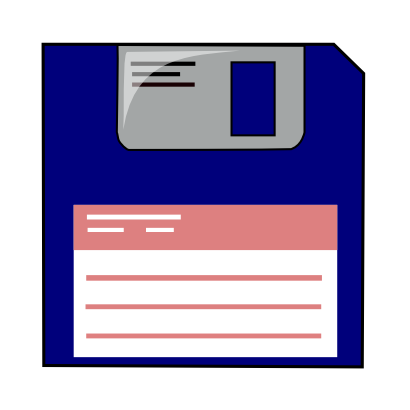
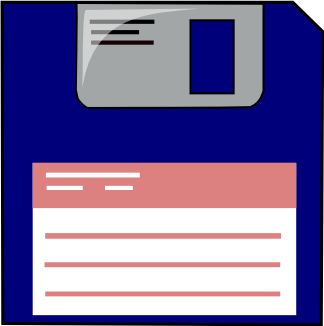
Raccourcis fonctionnels

diff --git a/src/main/java/MyNotes.java b/src/main/java/MyNotes.java
@@ -3,11 +3,11 @@
 import javafx.application.Application;
 import javafx.event.ActionEvent;
 import javafx.event.EventHandler;
-import javafx.geometry.Insets;
 import javafx.geometry.Pos;
 import javafx.scene.Scene;
 import javafx.scene.control.*;
 import javafx.scene.control.Button;
+import javafx.scene.control.Label;
 import javafx.scene.control.Menu;
 import javafx.scene.control.MenuBar;
 import javafx.scene.control.MenuItem;
@@ -15,10 +15,7 @@ import javafx.scene.control.TextArea;
 import javafx.scene.image.Image;
 import javafx.scene.image.ImageView;
 import javafx.scene.input.KeyCombination;
-import javafx.scene.layout.HBox;
-import javafx.scene.layout.Pane;
-import javafx.scene.layout.StackPane;
-import javafx.scene.layout.VBox;
+import javafx.scene.layout.*;
 import javafx.scene.text.Text;
 import javafx.scene.text.TextAlignment;
 import javafx.stage.FileChooser;
@@ -56,6 +53,8 @@ public class MyNotes extends Application {
     private Menu menuCopier;
 
     private HBox commandsShortcut;
+    private Button newFileShortcut;
+    private Button openShortcut;
     private Button saveShortcut;
 
 
@@ -81,10 +80,15 @@ public class MyNotes extends Application {
     private VBox root;
 
 
-
-
-
-    private Desktop desktop;
+    ImageView creerImageViewShortcut(String nomImage){
+        File fileImgSave = new File("./"+nomImage);
+        String localUrl = fileImgSave.toURI().toString();
+        Image imgSave = new Image(localUrl);
+        ImageView imgView = new ImageView(imgSave);
+        imgView.fitHeightProperty().setValue(20);
+        imgView.fitWidthProperty().setValue(20);
+        return imgView;
+    }
 
     Optional<ButtonType> creerAlerteConfirmation(Alert nomAlerte, String titreAlerte, String action,String complement) {
         nomAlerte.setAlertType(CONFIRMATION);
@@ -142,53 +146,58 @@ public class MyNotes extends Application {
         };//ecouteurSave
 
         EventHandler<ActionEvent> ecouteurOpen = event -> {
-            Alert alertOuvrirSansSauvegarder =new Alert(CONFIRMATION);
-            Optional<ButtonType> rep;
-            rep =  creerAlerteConfirmation(alertOuvrirSansSauvegarder,
-                    "Ouvrir un autre fichier",
-                    "sauvegarder",
-                    "avant d'ouvrir un autre fichier");
-            if (rep.get() == ButtonType.OK) {
-                ecouteurSave.handle(event);
-                textArea.clear();
-                fileChooser = new FileChooser();
-                File file = fileChooser.showOpenDialog(primaryStage);
-                BufferedReader br;
-                String ligneLu;
-                try {
-                    fileRead = new FileReader(file);
-                    br = new BufferedReader(fileRead);
-                    currentWorkingDir = file.getParent();
-                    while ((ligneLu = br.readLine()) != null) {
-                        textArea.appendText(ligneLu + '\n');
-                    }
-                    br.close();
-                    primaryStage.setTitle(file.getName());
-                } catch (FileNotFoundException e) {
-                    e.printStackTrace();
-                } catch (IOException e) {
-                    e.printStackTrace();
+            if(textArea.getText().length() != 0) {
+                Alert alertOuvrirSansSauvegarder = new Alert(CONFIRMATION);
+                Optional<ButtonType> rep;
+                rep = creerAlerteConfirmation(alertOuvrirSansSauvegarder,
+                        "Ouvrir un autre fichier",
+                        "sauvegarder",
+                        "avant d'ouvrir un autre fichier");
+                if (rep.get() == ButtonType.OK) {
+                    ecouteurSave.handle(event);
+                    textArea.clear();
                 }
+            }
+
+            fileChooser = new FileChooser();
+            File file = fileChooser.showOpenDialog(primaryStage);
+            BufferedReader br;
+            String ligneLu;
+            try {
+                fileRead = new FileReader(file);
+                br = new BufferedReader(fileRead);
+                currentWorkingDir = file.getParent();
+                while ((ligneLu = br.readLine()) != null) {
+                    textArea.appendText(ligneLu + '\n');
+                }
+                br.close();
+                primaryStage.setTitle(file.getName());
+            } catch (FileNotFoundException e) {
+                e.printStackTrace();
+            } catch (IOException e) {
+                e.printStackTrace();
             }
         };//ecouteurOpen
 
         EventHandler<ActionEvent> ecouteurNewFile = event -> {
-            Alert alertOuvrirSansSauvegarder =new Alert(CONFIRMATION);
-            Optional<ButtonType> rep;
-            rep =  creerAlerteConfirmation(alertOuvrirSansSauvegarder,
-                                   "Ouvrir un nouveau fichier",
-                                      "sauvegarder",
-                                 "avant de créer un nouveau fichier");
-            if (rep.get() == ButtonType.OK){
-                ecouteurSave.handle(event);
+            if(textArea.getText().length() != 0) {
+                Alert alertOuvrirSansSauvegarder = new Alert(CONFIRMATION);
+                Optional<ButtonType> rep;
+                rep = creerAlerteConfirmation(alertOuvrirSansSauvegarder,
+                        "Ouvrir un nouveau fichier",
+                        "sauvegarder",
+                        "avant de créer un nouveau fichier");
+                if (rep.get() == ButtonType.OK) {
+                    ecouteurSave.handle(event);
+                }
+                start(primaryStage);
             }
-            start(primaryStage);
         };//ecouteurSaveNewFile
 
 
         newFile = new MenuItem("Nouveau");
         open    = new MenuItem("Ouvrir");
-        save    = new MenuItem("Enregistrer"  );
+        save    = new MenuItem("Enregistrer");
 
         left   = new MenuItem("Left"  );
         center = new MenuItem("Center");
@@ -198,6 +207,8 @@ public class MyNotes extends Application {
         cut    = new MenuItem("Couper");
         paste  = new MenuItem("Coller");
 
+        newFileShortcut = new Button();
+        openShortcut = new Button();
         saveShortcut = new Button();
 
         menuFile = new Menu("Fichier");
@@ -210,10 +221,15 @@ public class MyNotes extends Application {
         menuBar = new MenuBar(menuFile,menuPositionTexte,menuCopier);
 
 
-        saveShortcut.setStyle("-fx-background-image: disquette'.'png;");//pas image
+        newFileShortcut.setGraphic(creerImageViewShortcut("nouveauFichier.png"));
+        openShortcut.setGraphic(creerImageViewShortcut("ouvrir.png"));
+        saveShortcut.setGraphic(creerImageViewShortcut("disquette.png"));
 
+        Label labelVide = new Label();
+        labelVide.setPrefWidth(6);
 
-        commandsShortcut = new HBox(saveShortcut);
+        commandsShortcut = new HBox(labelVide,newFileShortcut,openShortcut,saveShortcut);
+        commandsShortcut.setSpacing(10);
 
 
         textArea = new TextArea();
@@ -233,9 +249,11 @@ public class MyNotes extends Application {
 
 
         newFile.setOnAction(ecouteurNewFile);
+        newFileShortcut.setOnAction(ecouteurNewFile);
         newFile.setAccelerator(KeyCombination.keyCombination("Ctrl+N"));
 
         open.setOnAction(ecouteurOpen);
+        openShortcut.setOnAction(ecouteurOpen);
         open.setAccelerator(KeyCombination.keyCombination("Ctrl+O"));
 
         save.setOnAction(ecouteurSave);
